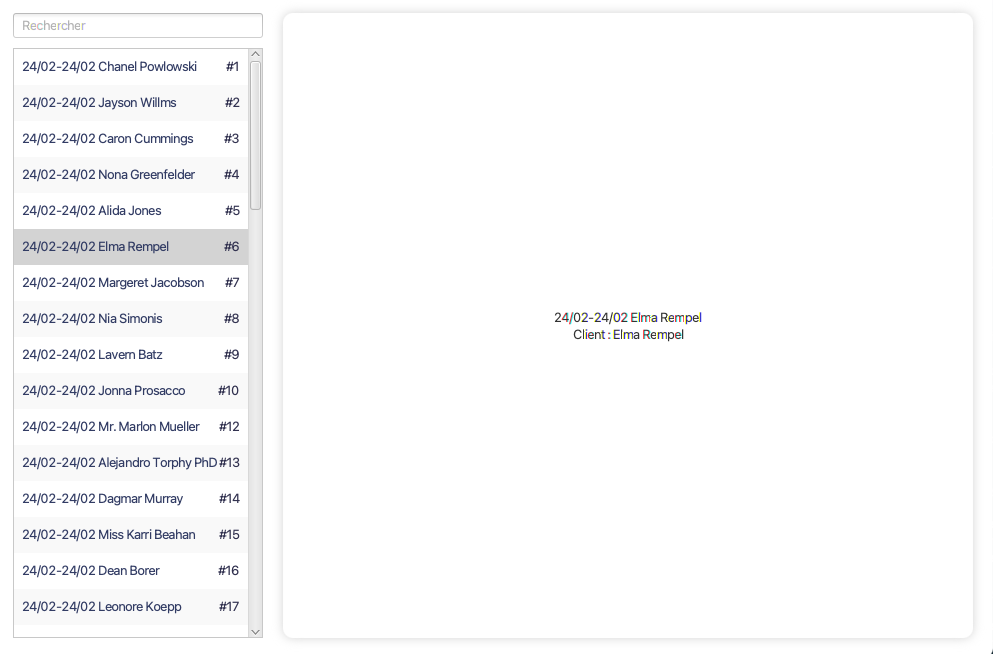
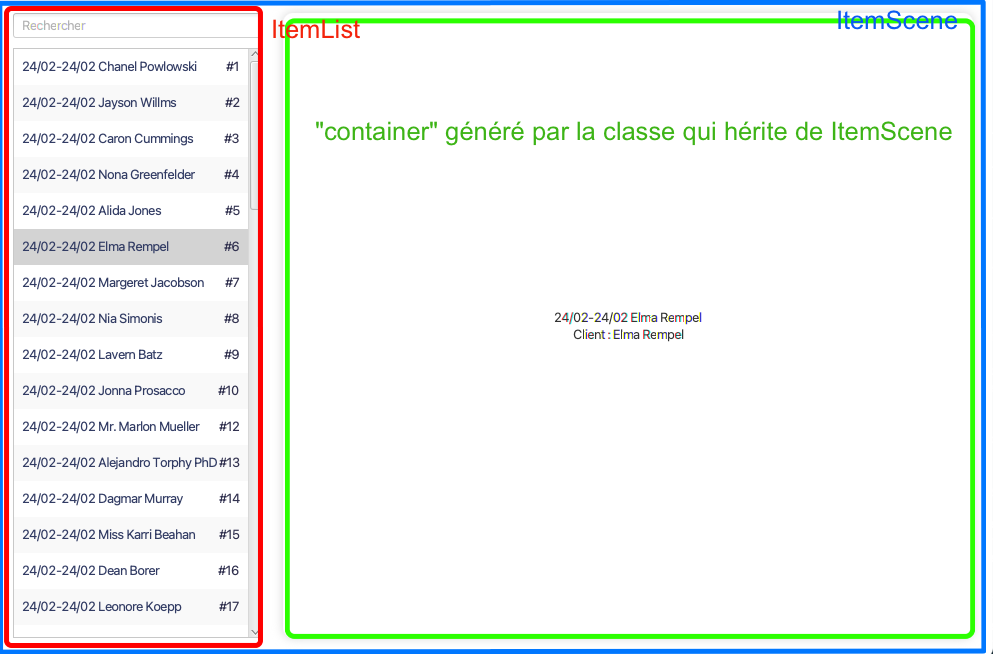
User manual

Changed region(s): [[0.0, 0.0, 0.999, 1.0]]

diff --git a/SYSTEMES_STRUCTURES.md b/SYSTEMES_STRUCTURES.md
@@ -1,0 +1,145 @@
+# Manuel développeur de l'application
+
+Ce manuel regroupe les explications des systèmes composants le projet.
+
+Les connaissances de base de JavaFX sont requises, [un document d'aide est disponible](./JAVAFX.md).
+
+Pour installer / lancer / ... le projet, se référer au [README](./README.md).
+
+## 1/ L'interface Item et Base de données
+
+Le projet utilise l'ORM [ORMLite](./ORMLITE.md), et permet donc d'approcher les entités de la BD sous forme de classes. `src/main/java/database/model`
+
+![](./assets/database.png)
+> Les liens ne sont pas affichés sur le schéma à cause de l'ORM
+
+Chacune de ces classes (sauf exception) implémentent l'iterface Item leur forçant l'implémentation suivante :
+
+```java
+/**
+ * 
+ * @return Nom d'affichage condensé complet de l'item (Utilisé pour l'affichage
+ *         à l'intérieur de
+ *         l'ItemList
+ */
+public String getDisplayName();
+
+/**
+ * 
+ * @return identifiant de l'item
+ */
+public int getId();
+
+/**
+ * 
+ * @return Une chaîne de caractère permettant de rechercher
+ *         parmis les données de l'item
+ */
+public String getSearchString();
+
+/**
+ * @return vrai si cette instance d'Item est correctement initialisé par
+ *         l'ORM
+ */
+public boolean isForeignCorrect();
+
+/**
+ * @return Couleur qui définit l'état de l'item
+ */
+public Color getStatusColor();
+```
+
+C'est méthodes sont utilisées dans les différents systèmes qui sont expliqués plus bas.
+
+## 2/ IScene
+
+**IScene** est l'interface qui décrit les pages de l'application.
+
+Elle fait office de structure générale à toutes ces pages et c'est elle qui est utilisée par le routeur (cf /3).
+
+Exemple d'implémentation :
+```java
+public class MaScene extends VBox implements IScene {...}
+```
+> Ici MaScene pourra être intégrée au routeur
+
+## 3/ Routage et hiérarchie JavaFX
+
+Le **Routeur** est une classe statique (Pas d'instance, toutes les méthodes sont `static`) permettant de changer la page (ou scène actuellement affichée à l'écran).
+La scène JavaFX RootScene agis comme une vitrine de laquelle le routeur viendrait changer la Iscene (la pages) actuellement affichée. Ainsi RootScene et les IScene ne sont jamais déchargées et  RootScene affiche (et masque) tour à tour les différentes IScene.
+
+![](./assets/router.png)
+
+En plus de la Iscene, RootScene contient aussi la <u>barre de navigation</u> qui elle non plus n'est jamais déchargé. La seule exception est la page de connexion pour laquelle la barre de navigation est masquée.
+
+```java
+Router.goToScreen(Routes.HOME);
+```
+
+La hiérarchie JavaFX en haut de l'arbre du projet ressemble donc à l'arbre suivant :
+
+![](./assets/structure-diag.jpg)
+
+
+## 4/ Système ItemScene / ItemList
+
+### ItemScene
+
+**ItemScene** est une sur-implémnetation abstraite et générique de IScene. Elle permet d'afficher des élèments de l'interface Item de façon <u>standardisée</u> : une liste des items à gauche de la page (ItemList) et les informations de l'item sélectionné à droite.
+
+![](./assets/itemScene.png)
+
+> Exemple complet d'ItemScene pour les réservations :
+```java
+public class ReservationsScene extends ItemScene<Reservation> {
+
+    @Override
+    public String getName() { // On donne le nom de la page
+        return "Réservations";
+    }
+
+    @Override
+    protected Region createContainer(Reservation item) { 
+        // Création du panel de droite qui affiche l'item sélectionné
+        var container = new VBox();
+        container.setAlignment(Pos.CENTER);
+        container.getChildren().addAll(new Label(item.getDisplayName()));
+        container.getChildren().addAll(new Label("Client : " + item.getClient().getName()));
+        return container;
+    }
+
+    @Override
+    protected List<Reservation> queryAll() throws SQLException {
+        return Database.getInstance().getReservationDao().queryForAll();
+    }
+}
+```
+
+### ItemList
+
+Les pages standardisées présentent une liste des items concernés avec seulement des information basiques. En selectionnant un item dans la liste, le container sur la partie droite de la page affiche un container avec tous les détails de cet item. Ce container étant généré par les classes qui héritent de ItemScene, il varie d'une page à l'autre.
+
+Les ItemList comportent égallement une barre de recherche. lors de la recherche, seuls les items correspondants sont affichés dans la liste.
+
+## 5/ Système de breakpoint (Responsive)
+
+Le système de **BreakPoint** permet de gérer les changements de taille de la fenêtre.
+
+Il est impératif de s'inscire aux changements de taille de fenêtre via une classe `static` (BreakPointManager).
+Pour s'inscrire (en tant que page ou au classe graphique JavaFX), il faut implémenter l'interface `BreakPointListener` puis implémenter les méthodes `onVerticalBreak` ou `onHorizontalBreak`.
+
+Exemple :
+```java
+public class RootScene extends StackPane implements BreakPointListener {
+    ...
+    public RootScene() {
+        BreakPointManager.addListener(this); // S'inscire en tant que listener
+    }
+
+    @Override
+    public void onVerticalBreak(VBreakPoint oldBp, VBreakPoint newBp) {
+       // Appelé dès que la fenêtre passe un des breakpoints
+       ...
+    }
+}
+```

diff --git a/README.md b/README.md
@@ -2,6 +2,8 @@
 
 [![pipeline status](https://gitlab-ce.iut.u-bordeaux.fr/criboulet/pt4/badges/main/pipeline.svg)](https://gitlab-ce.iut.u-bordeaux.fr/criboulet/pt4/-/commits/main)
 
+> Voir manuel [Structure / Systèmes](./SYSTEMES_STRUCTURES.md)
+
 ## Setup projet
 
 1. Clone le projet `git clone git@gitlab-ce.iut.u-bordeaux.fr:criboulet/pt4.git`
